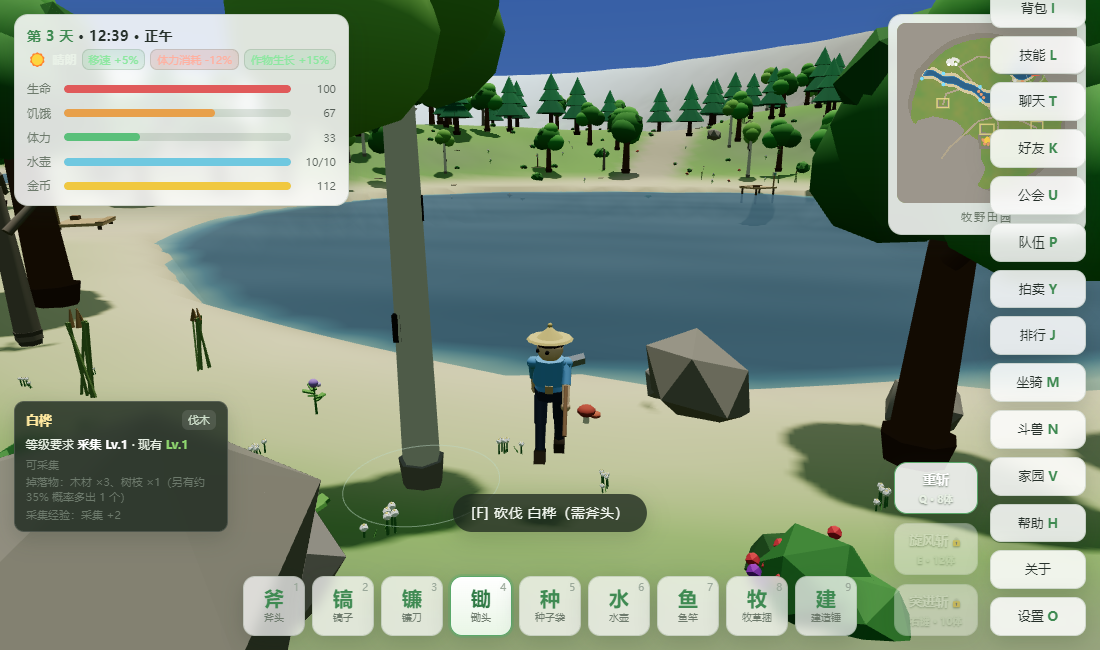
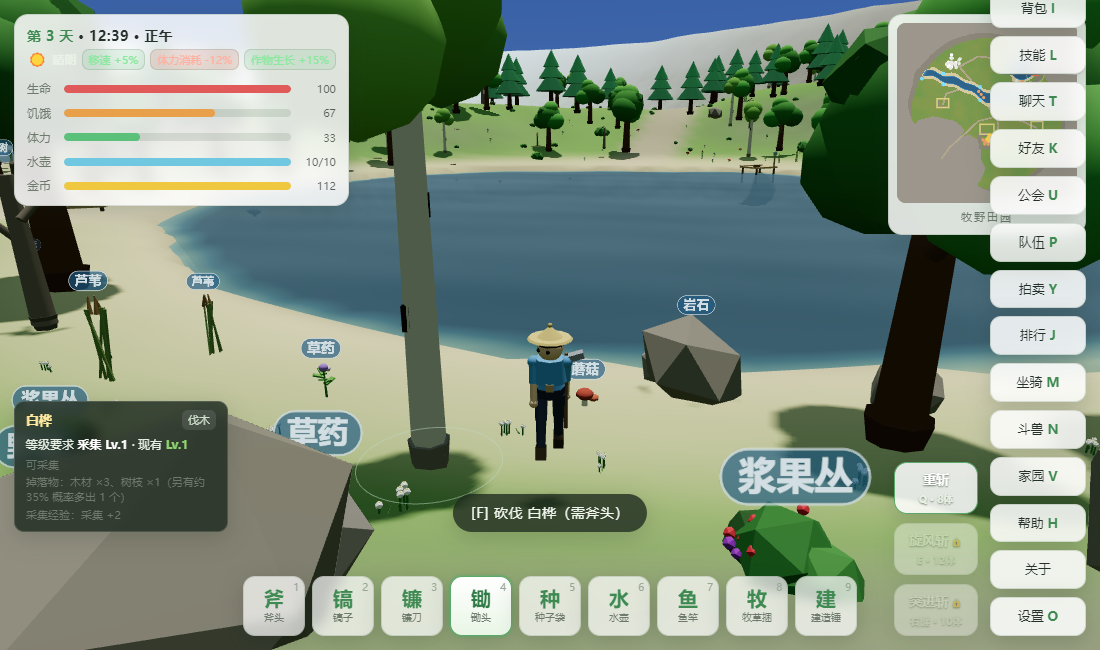
???? Open Farm:?? + ?? APK(????)

diff --git a/farm3d/js/entities.js b/farm3d/js/entities.js
@@ -193,6 +193,43 @@
   /* 使用岩石模型的节点类型（含全部矿脉） */
   F.ORE_TYPES = { rock: 1, iron: 1, pile: 1, copper: 1, tin: 1, alum: 1, silver: 1, gold: 1, crystal: 1, rainbow: 1 };
 
+  /* ==========================================================================
+   * 采集资源头顶名称牌（蓝色常驻）
+   * ponytail: 全图四千多个节点，不可能人人都挂一块牌子 —— 只给「玩家附近」的节点发牌，
+   *   用固定大小的对象池循环复用（桌面 48 / 手机 30），同名资源共用一张文字贴图。
+   *   牌子是 Sprite：自动朝向相机、随距离缩小、被山体建筑挡住时会被深度测试遮掉。
+   *   文字用 Canvas2D 现画，不引入任何外部美术资源（与全项目「零外部资源」一致）。
+   * ========================================================================== */
+  const LBL = (F.NodeLabel = { pool: [], keys: new Map(), top: {}, cool: 0, R: 26, cap: 48, ready: false });
+
+  /* 名称 → 文字贴图（同名共用一张） */
+  function nameTex(name) {
+    let o = LBL.keys.get(name);
+    if (o) return o;
+    const FS = 44, PAD = 22, H = 68;
+    const font = '700 ' + FS + 'px "PingFang SC","Microsoft YaHei","Hiragino Sans GB",system-ui,sans-serif';
+    const m = document.createElement('canvas').getContext('2d');
+    m.font = font;
+    const w = Math.max(110, Math.ceil(m.measureText(name).width) + PAD * 2);
+    const c = document.createElement('canvas');
+    c.width = w; c.height = H;
+    const g = c.getContext('2d');
+    g.font = font; g.textAlign = 'center'; g.textBaseline = 'middle';
+    g.fillStyle = 'rgba(8,26,48,0.66)';                    /* 深蓝胶囊底衬：草地 / 雪地 / 矿洞里都看得清 */
+    g.beginPath();
+    if (g.roundRect) g.roundRect(2, 2, w - 4, H - 4, (H - 4) / 2);
+    else g.rect(2, 2, w - 4, H - 4);
+    g.fill();
+    g.lineWidth = 3; g.strokeStyle = 'rgba(150,215,255,0.60)'; g.stroke();
+    g.fillStyle = '#8fd6ff';                               /* 蓝色资源名 */
+    g.fillText(name, w / 2, H / 2 + 2);
+    const tex = new THREE.CanvasTexture(c);
+    tex.minFilter = THREE.LinearFilter; tex.magFilter = THREE.LinearFilter;
+    o = { tex, aspect: w / H };
+    LBL.keys.set(name, o);
+    return o;
+  }
+
   const N = (F.Nodes = {
     list: [], meshes: {}, grid: null, cell: 10, gw: 0, seed: 20250101,
 
@@ -253,6 +290,7 @@
             const node = {
               type, def, x, z, y: host.y + (host.type === 'pine' ? 4.2 : 4.9) * host.s, ry: rnd() * 6.283, s,
               alive: true, respawn: 0, grow: 1, hits: def.hits, idx: 0, tint: 0, host,
+              van: 1,                       /* 消失动画进度 0→1（1 = 没在播） */
             };
             N.list.push(node);
             (madeTypes.vine || (madeTypes.vine = [])).push(node);
@@ -282,6 +320,7 @@
             type, def, x, z, y: h, ry: rnd() * 6.283, s,
             alive: true, respawn: 0, grow: 1, hits: def.hits, idx: 0,
             tint: def.tint ? FLOWER_COLORS[(rnd() * FLOWER_COLORS.length) | 0] : 0,
+            van: 1,                       /* 消失动画进度 0→1（1 = 没在播） */
           };
           N.list.push(node);
           (madeTypes[type] || (madeTypes[type] = [])).push(node);
@@ -375,8 +414,16 @@
       node.hits = node.def.hits;
       node.grow = 0;
       const mesh = N.meshes[node.type];
-      F.hideInst(mesh, node.idx);
-      mesh.instanceMatrix.needsUpdate = true;
+      /* 采集次数耗尽 → 播消失动画（先鼓一下再缩走 + 尘土），播完才真正隐藏实例，
+         不再是「啪」地瞬移消失；砍树另有 Nodes.fall 的倒下动画，别两套一起播 */
+      if (node.def.tool === 'axe') {
+        node.van = 1;
+        F.hideInst(mesh, node.idx);
+        mesh.instanceMatrix.needsUpdate = true;
+      } else {
+        node.van = 0;
+        N.vanishFx(node);
+      }
       /* ponytail: 返回拷贝而不是 def.yield 本身——概率产出要写进结果，不能污染节点定义 */
       const out = Object.assign({}, node.def.yield);
       const bo = node.def.bonus;
@@ -401,20 +448,91 @@
             F.setInst(mesh, n.idx, n.x, n.by, n.z, n.ry, s, n.tint ? new THREE.Color().setHex(n.tint) : null);
             dirty = true;
           }
-        } else if (n.respawn > 0) {
-          n.respawn -= dt;
-          if (n.respawn <= 0) {
-            n.alive = true; n.grow = 0.001;
-            F.setInst(N.meshes[n.type], n.idx, n.x, n.by, n.z, n.ry, 0.001, n.tint ? new THREE.Color().setHex(n.tint) : null);
+        } else {
+          /* 采集耗尽后的消失动画：先微微鼓一下，再边缩边沉边转一点点，播完隐藏实例。
+             与生长（grow）用的是同一套 instance 缩放，但走独立的 van 字段，
+             不会和 respawn 重生逻辑打架 —— 重生时 van 复位成 1 */
+          if (n.van < 1) {
+            n.van = Math.min(1, n.van + dt / 0.5);
+            const k = 1 - n.van;
+            const s = Math.max(0.0001, n.s * k * (1 + 0.28 * Math.sin(Math.PI * n.van)));
+            const mesh = N.meshes[n.type];
+            F.setInst(mesh, n.idx, n.x, n.by - n.van * 0.45, n.z, n.ry + n.van * 1.1, s);
             dirty = true;
+            if (n.van >= 1) F.hideInst(mesh, n.idx);
+          }
+          if (n.respawn > 0) {
+            n.respawn -= dt;
+            if (n.respawn <= 0) {
+              n.alive = true; n.grow = 0.001; n.van = 1;
+              F.setInst(N.meshes[n.type], n.idx, n.x, n.by, n.z, n.ry, 0.001, n.tint ? new THREE.Color().setHex(n.tint) : null);
+              dirty = true;
+            }
           }
         }
       }
       if (dirty) for (const k in N.meshes) N.meshes[k].instanceMatrix.needsUpdate = true;
     },
 
+    /* 采集耗尽的一瞬间：碎屑迸发（按工具分色）+ 一圈尘土 */
+    vanishFx(n) {
+      if (!F.FX) return;
+      const c = n.def.tool === 'pick' ? 0xa8a094 : (n.def.tool === 'sickle' ? 0x8fb255 : 0x7fae4a);
+      F.FX.burst(n.x, n.by + 0.35, n.z, c, 10, 0.75);
+      F.FX.burst(n.x, n.by + 0.15, n.z, 0xcbb894, 8, 0.55);   /* 地面扬尘 */
+    },
+
+    /* 头顶名称牌刷新：节流 0.2 秒 —— 只有玩家挪动后才需要重排 */
+    updateLabels(dt, px, pz) {
+      if (!N.scene || !N.meshes || !(F.FX && F.FX.camera)) return;
+      if (!LBL.ready) {
+        LBL.ready = true;
+        LBL.cap = F.coarseDevice ? 30 : 48;
+        /* 每种模型的高度量一次：牌子挂模型顶上，而不是脚下 */
+        for (const k in N.meshes) {
+          try { LBL.top[k] = Math.max(0.5, F.measure(N.meshes[k].geometry).max.y); } catch (e) { LBL.top[k] = 1.2; }
+        }
+        const ph = nameTex('资源');
+        for (let i = 0; i < LBL.cap; i++) {
+          const sp = new THREE.Sprite(new THREE.SpriteMaterial({
+            map: ph.tex, transparent: true, depthWrite: false,
+            sizeAttenuation: false,      /* 恒定屏幕尺寸：近处的牌子不会糊脸放大 */
+            fog: false, opacity: 0,
+          }));
+          sp.visible = false; sp.renderOrder = 3;
+          N.scene.add(sp);
+          LBL.pool.push(sp);
+        }
+      }
+      LBL.cool -= dt;
+      if (LBL.cool > 0) return;
+      LBL.cool = 0.2;
+      const near = N.near(px, pz, LBL.R);
+      const cnt = Math.min(near.length, LBL.pool.length);
+      for (let i = 0; i < LBL.pool.length; i++) {
+        const sp = LBL.pool[i];
+        if (i >= cnt) { sp.visible = false; continue; }
+        const e = near[i], nd = e.n, d = Math.sqrt(e.d);
+        const name = nd.def.name;
+        if (sp.userData.key !== name) {
+          const t = nameTex(name);
+          sp.material.map = t.tex; sp.material.needsUpdate = true;
+          sp.userData.key = name;
+          /* sizeAttenuation:false 时 scale 是「屏高占比」：0.055 ≈ 5.5% 屏高 */
+          const h = 0.055 * (F.coarseDevice ? 1.3 : 1);
+          sp.scale.set(h * t.aspect, h, 1);
+        }
+        sp.position.set(nd.x, nd.by + (LBL.top[nd.type] || 1.2) * nd.s + 0.34, nd.z);
+        /* 远处淡出，26m 外不显示 —— 免得满屏都是牌子 */
+        const fade = 1 - Math.max(0, (d - LBL.R * 0.62) / (LBL.R * 0.38));
+        sp.material.opacity = fade;
+        sp.visible = fade > 0.02;
+      }
+    },
+
     /* 砍伐时的倒下动画 */
     fall(node, done) {
+      node.van = 1;                 /* 倒下动画接管，别再播收缩消失那套 */
       const mesh = N.meshes[node.type];
       const geo = mesh.geometry;
       const m = new THREE.Mesh(geo, F.MATS.std);

diff --git a/farm3d/_e2e.js b/farm3d/_e2e.js
@@ -509,7 +509,8 @@ fs.writeFileSync(TMP_PIC, Buffer.from(
   console.log('   新手村 guards =', JSON.stringify(await page.evaluate(() => window.FARM.Combat.mobs.filter(m => m.def.guard).length)));
   console.log('   守卫 =', JSON.stringify(cdGuard), '低体力 =', JSON.stringify(lowE.energy), JSON.stringify(lowE.toast));
   ok('三条释放途径都生效：[Q] / 鼠标右键 / HUD 按钮（触摸可用）',
-    qres.hits === 1 && qres.hp < 99999 && rres.hits >= 1 && tres.hits === 1 && tres.energy === 92);
+    /* ponytail: 体力在测试步骤之间会被真实帧自然回复一点点，比对用容差，别卡死在精确的 92.0000 */
+    qres.hits === 1 && qres.hp < 99999 && rres.hits >= 1 && tres.hits === 1 && Math.abs(tres.energy - 92) < 0.05);
   ok('冷却与资源：CD 中重复按不扣体力不结算；体力不足不放并提示；等级不足不放',
     cdGuard.sameEnergy && cdGuard.sameHits && lowE.released === false && lowE.energy === 2 &&
     /体力不足/.test(lowE.toast) && locked);
@@ -2014,6 +2015,50 @@ fs.writeFileSync(TMP_PIC, Buffer.from(
   await page.waitForTimeout(600);
   await page.screenshot({ path: path.join(__dirname, 'production', 'qa', 'evidence', 'hill-rocks.png') });
   await page.evaluate(() => { const P = window.FARM.Player; P.pos.set(2, 0, 104); });
+
+  /* 13. 采集资源头顶蓝色名称牌（常驻）+ 采集耗尽的消失动画 */
+  const lbl = await page.evaluate(() => {
+    const F = window.FARM, L = F.NodeLabel;
+    const n = F.Nodes.list.find(x => x.alive && x.def.tool !== 'axe') || F.Nodes.list[0];
+    F.Player.pos.set(n.x, F.T.hAt(n.x, n.z), n.z);
+    F.Nodes.updateLabels(1, n.x, n.z);
+    const vis = L.pool.filter(s => s.visible);
+    return {
+      pool: L.pool.length, visible: vis.length,
+      keys: vis.slice(0, 3).map(s => s.userData.key),
+      blue: vis.length ? vis[0].material.map !== null : false,
+      above: vis.length ? +(vis[0].position.y - n.by).toFixed(2) : -1,
+    };
+  });
+  console.log('   名称牌 =', JSON.stringify(lbl));
+  ok('采集资源头顶常驻名称牌：附近节点挂出牌子（有贴图、挂在模型顶上）',
+    lbl.pool > 0 && lbl.visible > 0 && lbl.blue && lbl.above > 0.5 && lbl.keys[0] && lbl.keys[0].length > 0);
+
+  const van = await page.evaluate(() => {
+    const F = window.FARM;
+    const n = F.Nodes.list.find(x => x.alive && x.def.tool === 'pick');
+    const size = () => {                        /* 读该实例当前的缩放（动画进度） */
+      const m = new THREE.Matrix4(), q = new THREE.Quaternion(), s = new THREE.Vector3(), p = new THREE.Vector3();
+      F.Nodes.meshes[n.type].getMatrixAt(n.idx, m); m.decompose(p, q, s);
+      return { s: +s.x.toFixed(3), y: +p.y.toFixed(2) };
+    };
+    const full = size().s;
+    const p0 = F.FX.parts.length;
+    F.Nodes.harvest(n);
+    const start = { van: n.van, alive: n.alive, parts: F.FX.parts.length - p0 };
+    F.Nodes.update(0.12);                       /* 动画中途：实例应处于「正在缩小」 */
+    const mid = size(), midVan = +n.van.toFixed(2);   /* 此刻就取，别放到 return 里（那时循环已跑完） */
+    /* ponytail: 软渲染帧率极低，直接喂固定步长把动画推完，不赌墙钟时间 */
+    for (let i = 0; i < 8; i++) F.Nodes.update(0.1);
+    const end = size();
+    return { full: +full.toFixed(3), start, midVan, mid, endVan: n.van, end };
+  });
+  const vanEnd = { van: van.endVan, endScale: van.end.s, endY: van.end.y };
+  console.log('   消失动画 =', JSON.stringify(van), JSON.stringify(vanEnd));
+  ok('采集耗尽：先播收缩消失动画（中途仍在缩小）再隐藏实例，并迸发碎屑',
+    van.start.alive === false && van.start.van === 0 && van.start.parts > 0 &&
+    van.midVan > 0 && van.midVan < 1 && van.mid.s > 0.001 && van.mid.s < van.full &&
+    vanEnd.van === 1 && vanEnd.endScale < 0.001);
 
   console.log(errs.length ? '\n运行时错误:\n' + errs.slice(0, 5).join('\n') : '\n无 JS 错误');
   await browser.close();

diff --git a/farm3d/js/main.js b/farm3d/js/main.js
@@ -343,6 +343,7 @@
       F.Animals.update(dt, F.Player);
       F.Fish.update(dt);
       F.Nodes.update(dt);
+      F.Nodes.updateLabels(dt, F.Player.pos.x, F.Player.pos.z);   /* 采集资源头顶蓝色名称牌 */
       F.Farm.update(dt, F.Weather ? F.Weather.m('growth', 1) : 1);
       farmT -= dt;
       if (farmT <= 0) { farmT = 0.5; F.Farm.visualTick(); }
